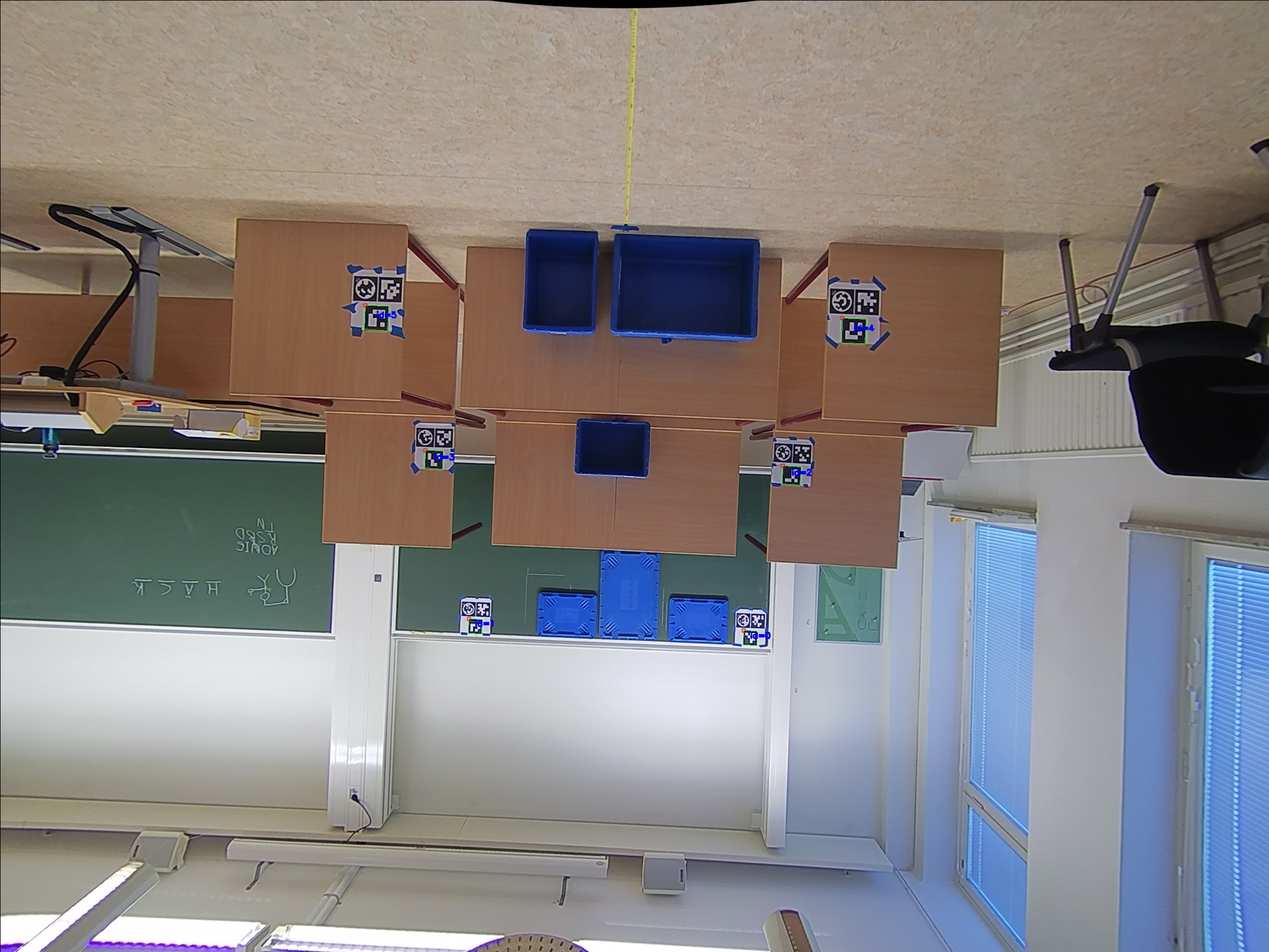
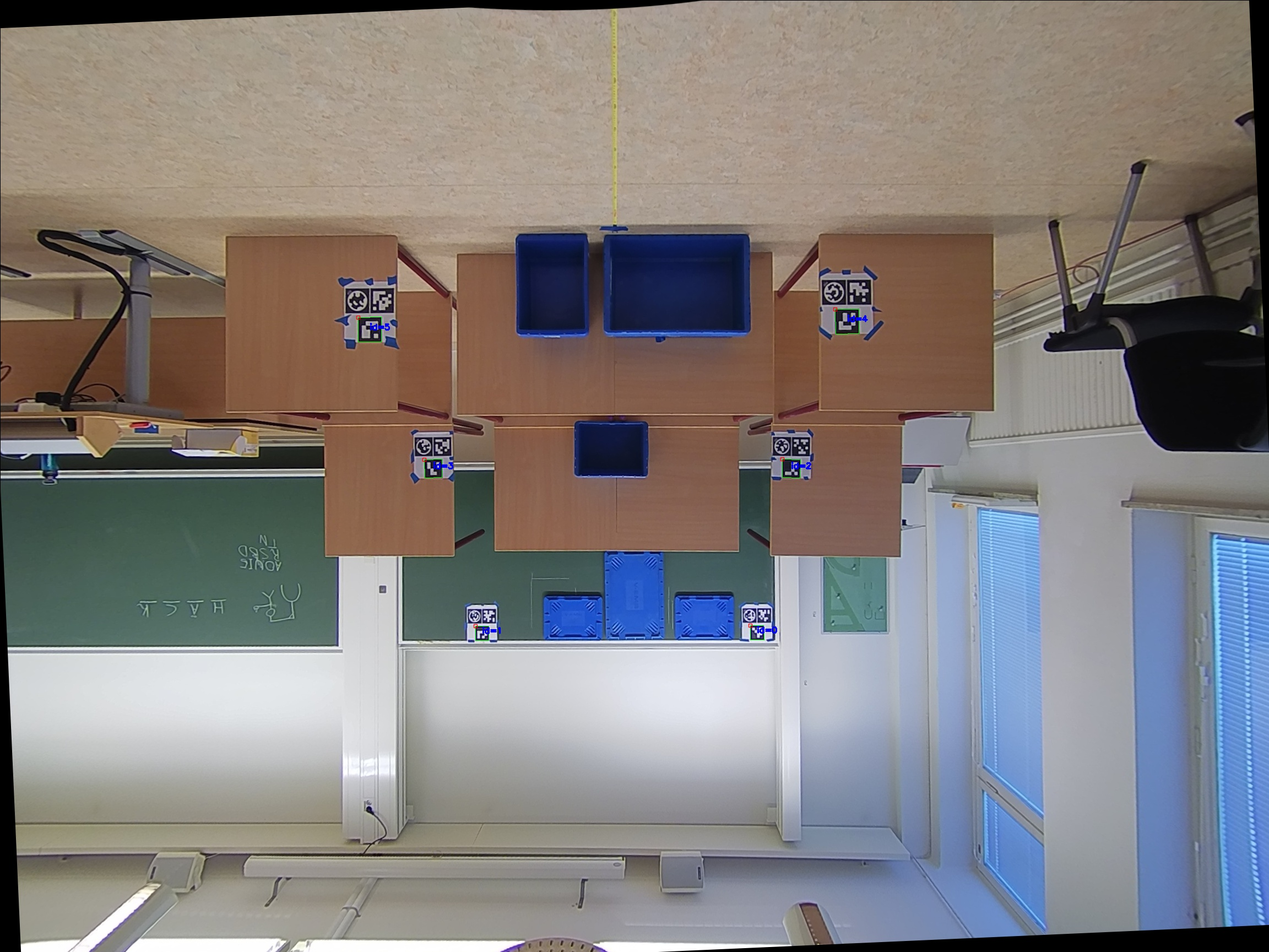
commit

Changed region(s): [[0.0, 0.0, 1.0, 1.0]]

diff --git a/tag_detection.py b/tag_detection.py
@@ -13,7 +13,6 @@ class Tag:
         self.tag_type = tag_type
         self.dict = self.get_dict()
         self.markers, self.corners, self.ids = self.detect_tags()  # necessary for rotation
-
         self.image = self.rotate_image()
         self.markers, self.corners, self.ids = self.detect_tags()  # after rotation re-read
 
@@ -93,33 +92,21 @@ class Tag:
         for marker in markers:
             marker_center.append([sum(marker[0]) / 4, sum(marker[1]) / 4])
 
-        x_dif = [marker_center[1][0] - marker_center[5][0], marker_center[4][0] - marker_center[0][0]]
+        points = [[marker_center[0]],
+                  [marker_center[1]],
+                  [(marker_center[4][0] + marker_center[5][0])/2, (marker_center[4][1] + marker_center[5][1])/2]]
         b_h_ratio = (marker_center[4][0] - marker_center[5][0])/(marker_center[0][1]-marker_center[4][1])
-        return [x_dif + [b_h_ratio]]
+        return points
 
-    def re_orient_image(self, optimal_values, markers):
+    def re_orient_image(self, pts1):
         rows, cols, ch = self.image.shape
-        x_dif0 = optimal_values[:2]
-        b_h_ratio = optimal_values[2]
         marker_center = []
-        for marker in markers:
+        for marker in self.markers:
             marker_center.append([sum(marker[0]) / 4, sum(marker[1]) / 4])
-        b1 = (marker_center[4][0] - marker_center[5][0])
-        h1 = (marker_center[0][1] - marker_center[4][1])
-        alpha = (b1/b_h_ratio) - h1
-        print(alpha)
-        x_dif1 = [marker_center[1][0] - marker_center[5][0], marker_center[4][0] - marker_center[0][0]]
-        dif_x_dif = [x_dif0[0]-x_dif1[0], x_dif0[1]-x_dif1[1]]
-        pts1 = [[marker_center[0][0] + dif_x_dif[1], marker_center[0][1] + (alpha / 2)],
-                [marker_center[1][0] + dif_x_dif[0], marker_center[1][1] + (alpha / 2)],
-                [marker_center[4][0] - dif_x_dif[1], marker_center[4][1] - (alpha / 2)],
-                [marker_center[5][0] - dif_x_dif[0], marker_center[5][1] - (alpha / 2)]]
-        pts2 = marker_center[0:2] + marker_center[4:6]
-        pts1 = np.float32(pts1)
-        pts2 = np.float32(pts2)
-        print(pts1)
-        print(pts2)
-        M = cv2.getAffineTransform(pts1, pts2)
+        pts2 = np.float32([marker_center[0],
+                           marker_center[1],
+                           [(marker_center[4][0] + marker_center[5][0])/2, (marker_center[4][1] + marker_center[5][1])/2]])
+        M = cv2.getAffineTransform(np.float32(pts1), pts2)
         dst = cv2.warpAffine(self.image, M, (cols, rows))
         cv2.imshow("test", dst)
         cv2.waitKey(0)

diff --git a/main.py b/main.py
@@ -27,8 +27,8 @@ def check_detected_tags():
 #check_detected_tags()
 new_image = tag_detection.Tag(filename, tag_type)
 new_image.draw_tags()
-optimal_values = [194.5, 173.0, 1.542946150422786]
-new_image.re_orient_image(optimal_values, new_image.markers)
+optimal_values = [[1374.25, 1148.0], [875.0, 1149.0], [1104.375, 590.5]]
+#new_image.re_orient_image(optimal_values)
 shelf = markerlib.Shelf(new_image.markers)
 # box finding code:
 source_img = f'graphics/calibration_output/{filename}'
